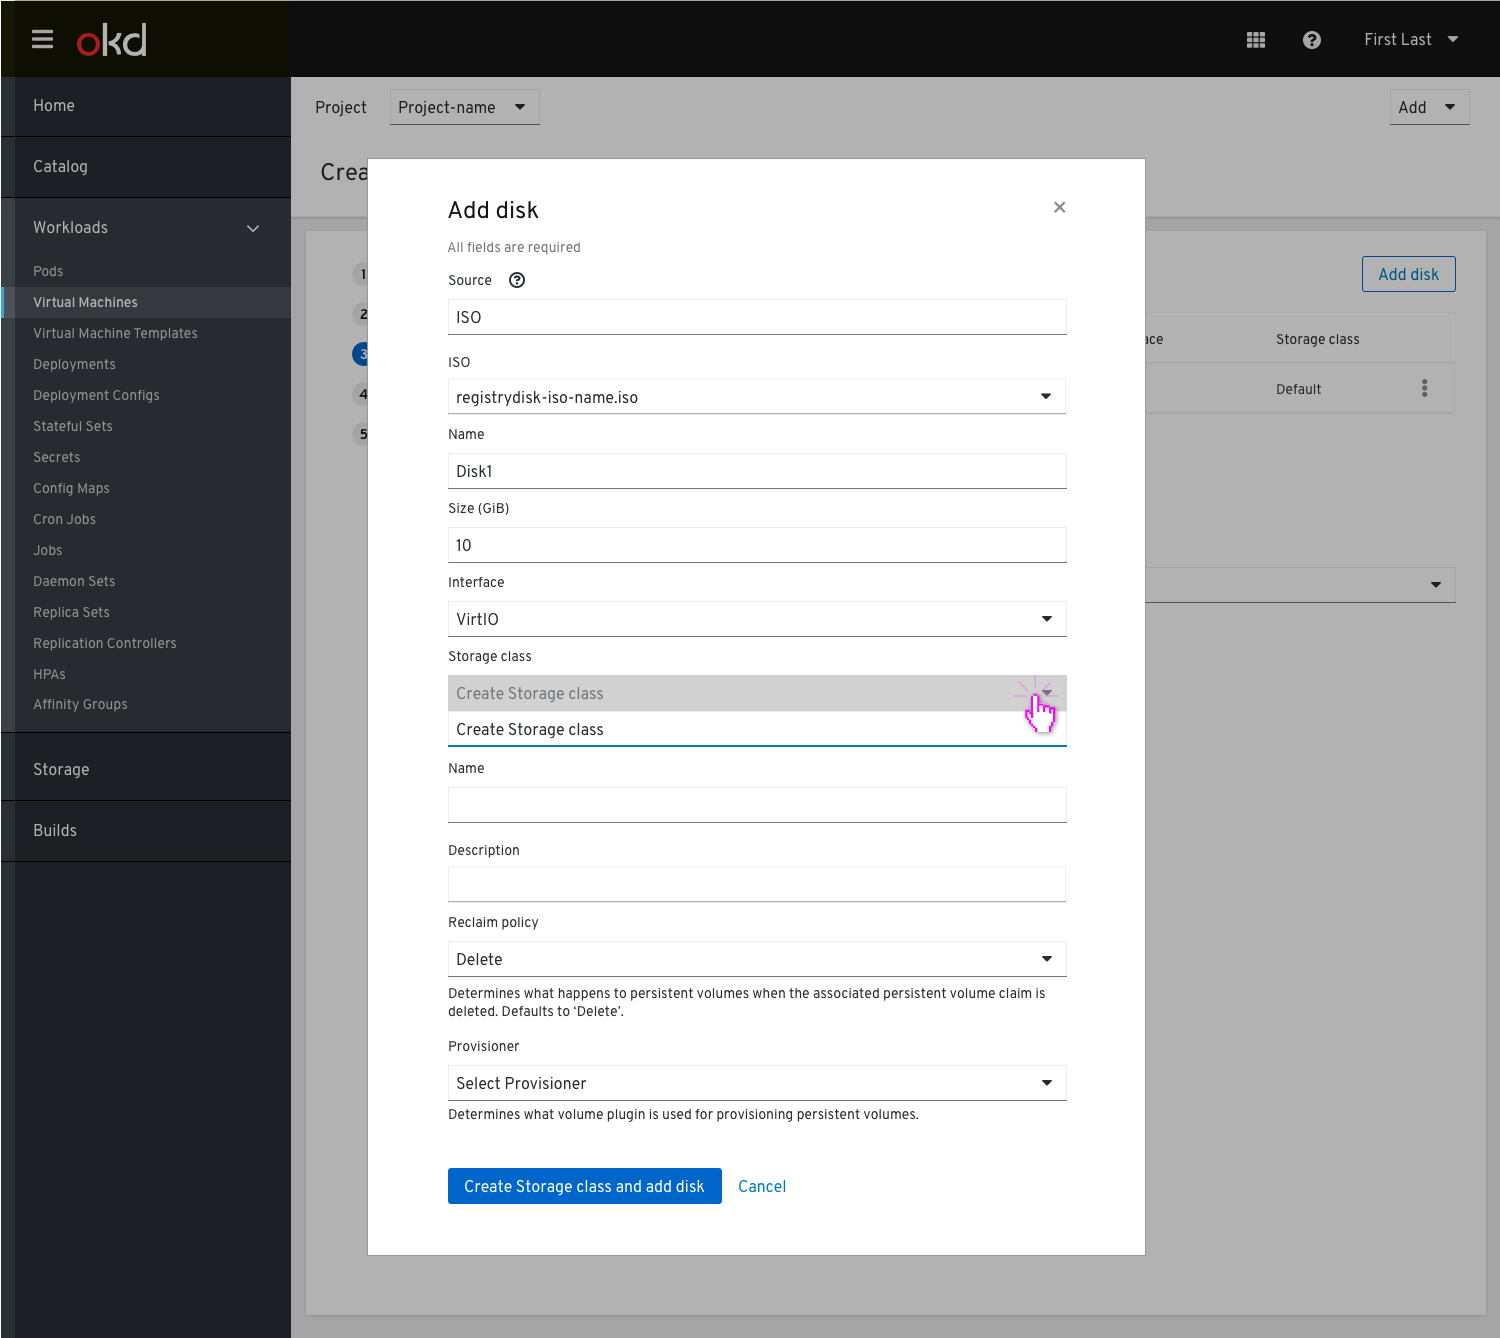
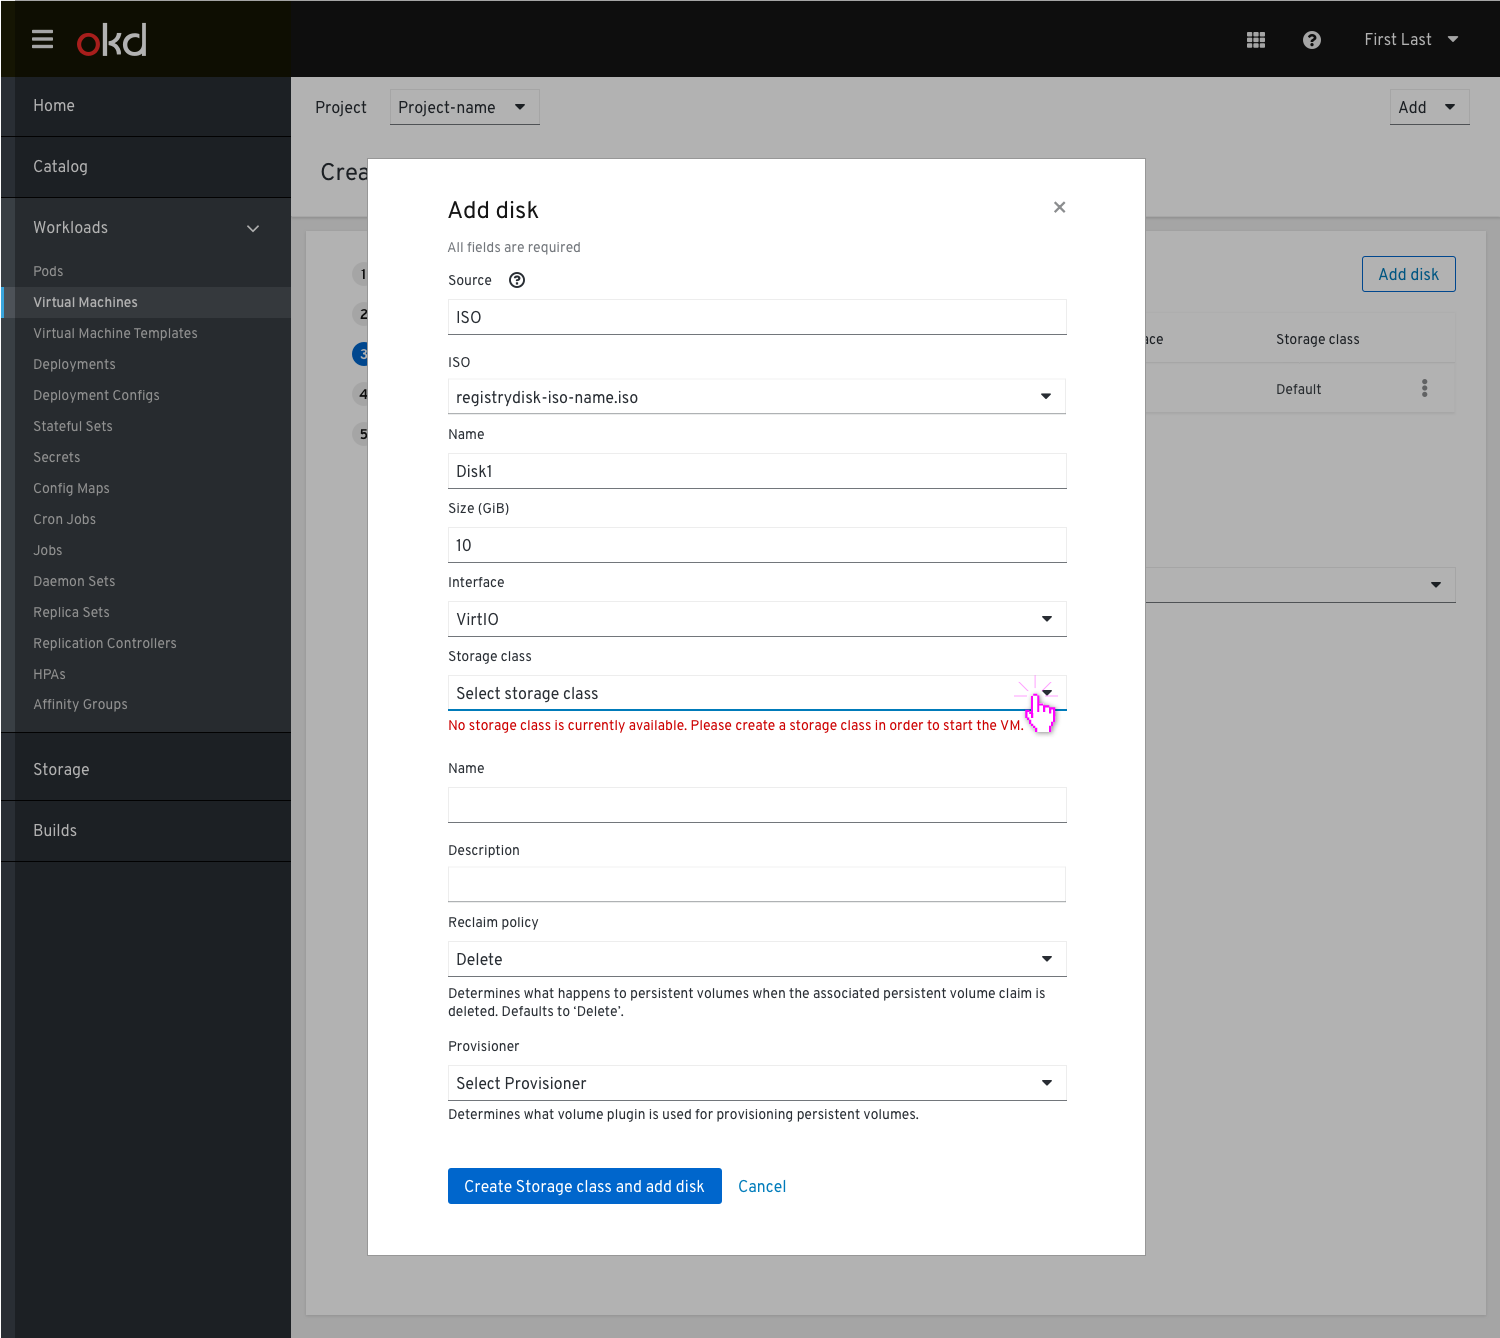
text updates and status changes

Changed region(s): [[0.276, 0.4903, 0.736, 0.5516]]

diff --git a/web-console/knikubevirt/NoStorageClassAvailable/NoStorageClassAvailable.md b/web-console/knikubevirt/NoStorageClassAvailable/NoStorageClassAvailable.md
@@ -1,10 +1,7 @@
 # Storage class isn’t defined
 
-https://github.com/openshift/openshift-origin-design/issues/249
-https://jira.coreos.com/browse/CNV-2842
-
 Currently in our designs we have a default storage class used when a disk is added in the Create VM flow, but we do not cover the absence of a default storage class.
-This PR should cover the state of no storage class selected and determine if/how the user should be notified.
+This design covers the state of no storage class selected and determines how the user should be notified.
 
 During the process of creating the VM, in the Storage step, the user needs to add a disk.
 
@@ -20,16 +17,19 @@ We want to allow the user to set the Storage class within the wizard, with no ne
 ![Add disk modal with create storage class](img/Add-disk-modal-with-create-sc.png)
 
 Clicking the ‘Create Storage class and add disk’ button at the bottom will add the disk to the list view.
-In cases when the user didn’t define any Storage class, the Storage class will be shown in the table view as ‘Pending’ with a warning icon.
-Clicking on the ‘Pending’ Storage class will show a popover with more info and an action link which will take the user to the ‘Create Storage class’ modal.
 
-![Pending popover](img/Popover.png)
+Even when a user didn’t define a storage class, or doesn't have one available, they can still create a VM.
+In cases when the user didn’t define any Storage class, the Storage class will be shown in the table view as ‘Empty’ with a warning icon.
+Clicking on the ‘Empty’ Storage class will show a popover with more info and an action link which will take the user to the ‘Create Storage class’ modal.
+
+![Empty Storage class popover](img/Popover.png)
 
 'Create Storage class’ modal
 
 ![Create storage class modal](img/Create-storage-class-modal.png)
 
-Once the user creates the Storage class, it will be reflected in the list view and will no longer show pending status and warning icon.
+Once the user creates the Storage class, it will be reflected in the VM list view (after the VM has been created), and show the VM in a pending status with warning icon and a pop over explanation saying the VM has been scheduled and waiting for the requirements to be assigned.
 
-UC
-Even when a user didn’t define a storage class, or doesn't have one available, they can still create a VM. The VM status will be in a pending state (with a warning to the user), waiting for a Storage class to be assigned as the default, bind to it and then the storage class will be created successfully and the VM  will spin up.
+![vmlist with popover](img/vmlist.png)
+
+After that, the storage class will be created successfully and the VM will spin up.
